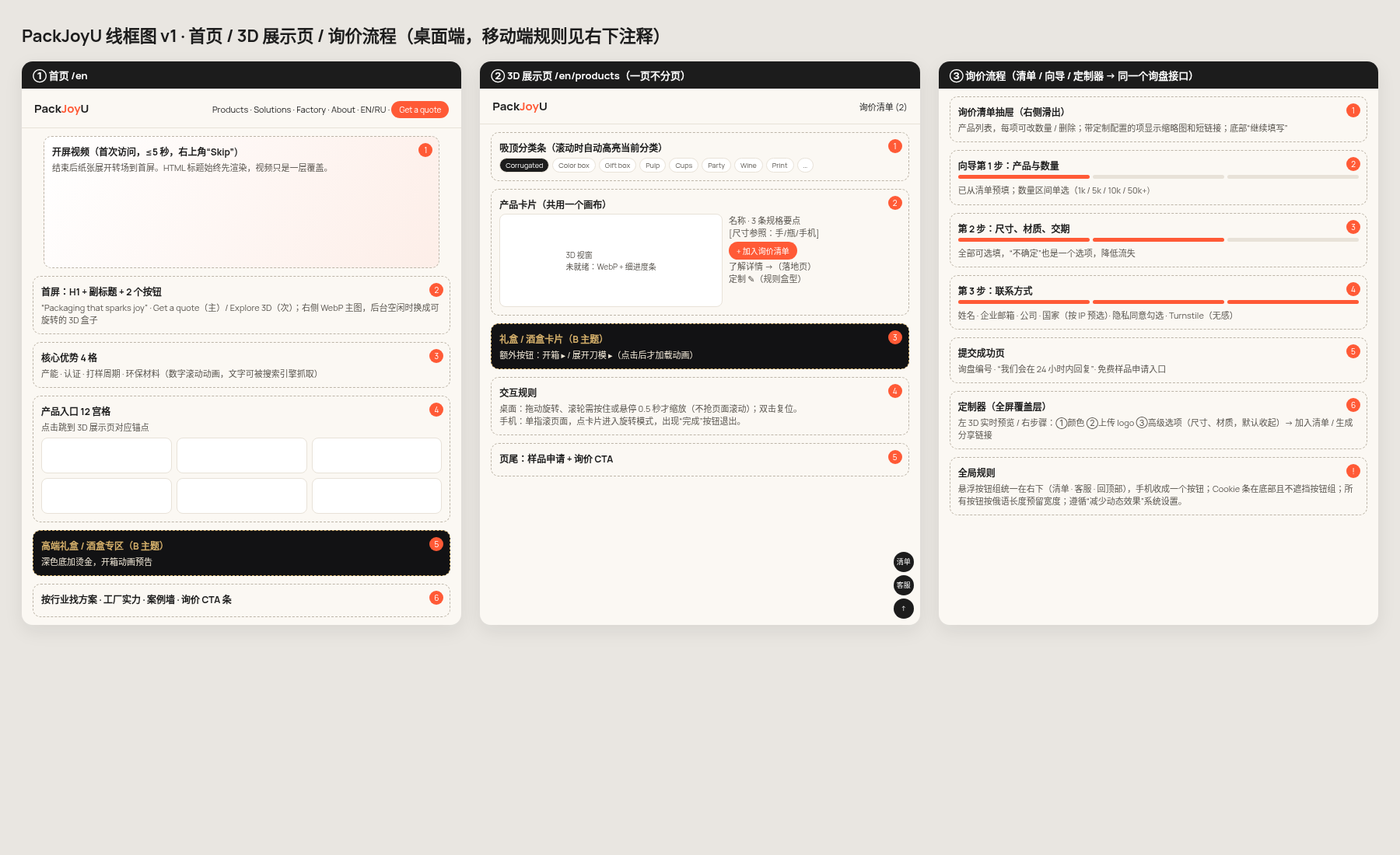
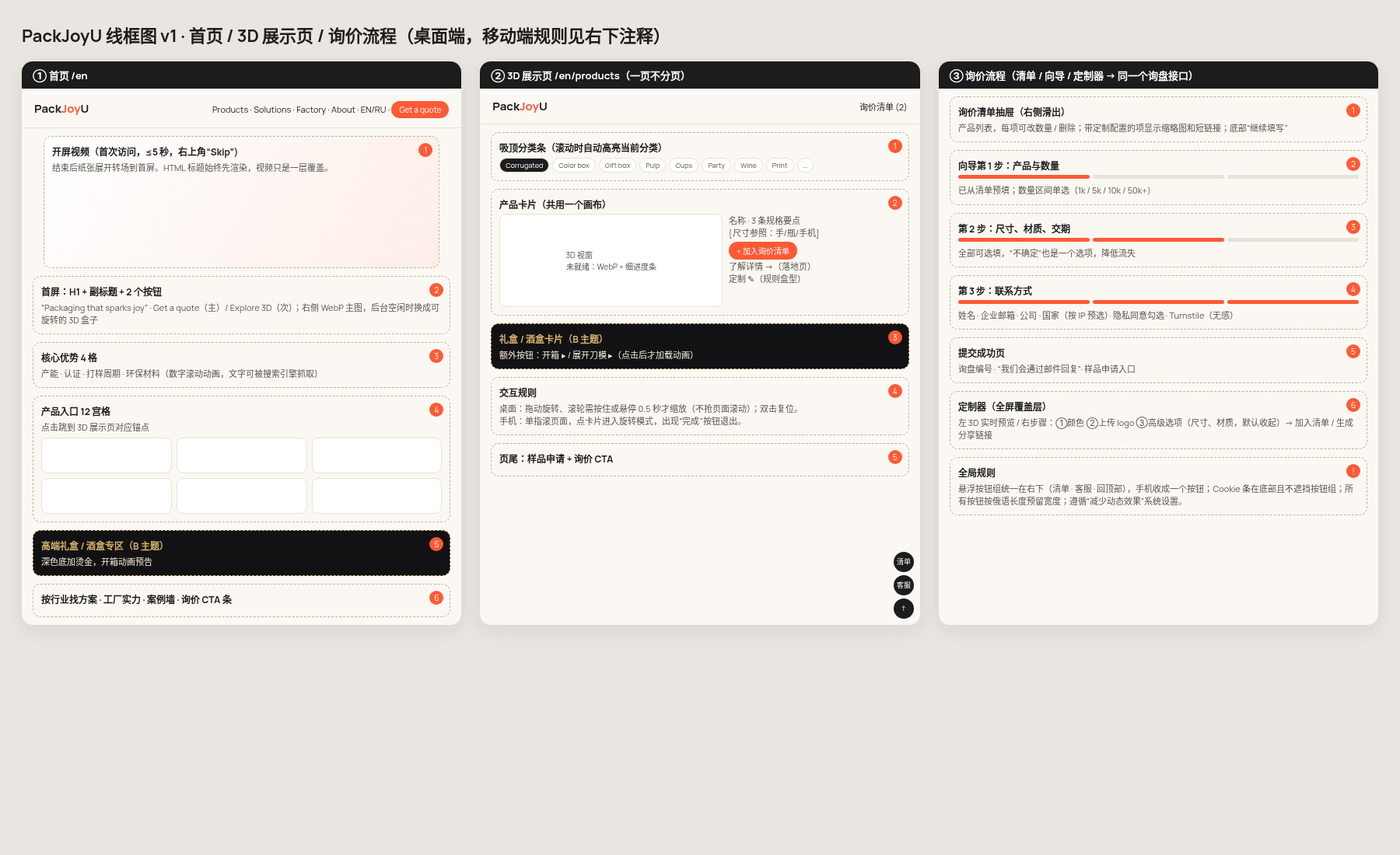
design: neutralize remaining unconfirmed claims (FDA-compliant cups, plastic-free inserts, wireframe 24h/free samples); re-export pages-86/pages-108-mobile/wireframes PNGs

diff --git a/design/pages-108-mobile.html b/design/pages-108-mobile.html
@@ -28,8 +28,8 @@ h1{font-size:30px;line-height:1.15;margin:0 0 10px;hyphens:auto}h2{font-size:22p
 <li>导航抽屉：右侧滑入 translateX，--dur-slow 进 / --dur-base 出；遮罩 rgba(0,0,0,.35)；焦点锁定，Esc/遮罩关闭，焦点回到汉堡按钮。</li>
 <li>礼盒/酒盒区块 .theme-premium；按钮文字颜色待 #147/#148（PR #156）Ryan 选择，本稿暂用当前色。</li>
 <li>首屏标题不做淡入；首屏以下卡片按 motion-tokens 滚动入场（.reveal）。工厂视频只用同源 poster，点击后才加载，不自动播放。</li>
-<li>斜纹块 = 占位图（标注目标路径）；只用 public/images/posters 下已有 3 张海报。</li></ul></div><h2 class="pt">① Industries · /[locale]/industries</h2><div class="rowp"><div class="col"><p class="lbl">EN 390 · Cookie 条显示中（浮动按钮上移 12px）</p><div class="phone"><header class="hd"><b class="logo">Pack<i>Joy</i>U</b><span class="lg">EN · RU</span><button class="ham" aria-label="Menu">☰</button></header><section class="pad"><p class="eye">Solutions by industry</p><h1>Packaging built for your industry</h1><p class="lead">Pick your sector to see matching structures, materials and certifications.</p></section><div class="chips"><span class="chip on">All</span><span class="chip">Food</span><span class="chip">E-commerce</span><span class="chip">Seasonal</span><span class="chip">Gift & wine</span></div><section class="pad stack"><article class="card"><div class="ph" style="height:180px"><span>posters/custom-color-boxes.webp · 占位</span></div><div class="cb"><h3>Food & beverage</h3><p>Custom printing, FDA-compliant cups and grease-resistant color boxes.</p><a class="more">View solution →</a></div></article><article class="card"><div class="im" style="height:180px"><img src="../public/images/posters/custom-corrugated-boxes.webp" alt=""></div><div class="cb"><h3>E-commerce & shipping</h3><p>Mailer boxes and molded inserts that survive long-haul export freight.</p><a class="more">View solution →</a></div></article><article class="card"><div class="ph" style="height:180px"><span>posters/custom-party-supplies.webp · 占位</span></div><div class="cb"><h3>Seasonal & retail</h3><p>Christmas sets, party supplies and gift cards ready for shelf.</p><a class="more">View solution →</a></div></article></section>
-<section class="theme-premium pad prem"><p class="eye">Premium · Wine & gift</p><h2>Wine and gift boxes that open like a ceremony</h2><p class="lead">Rigid board, gold foil and custom inserts for spirits, wine and corporate gifting.</p><div class="im dk" style="height:200px"><img src="../public/images/posters/custom-wine-boxes.webp" alt=""></div><div class="im dk" style="height:200px"><img src="../public/images/posters/custom-gift-boxes.webp" alt=""></div><span class="btn wide">Get a quote</span></section><section class="cta"><p>Tell us your product, quantity and market — we'll reply soon.</p><span class="btn wide">Get a quote</span></section><div class="fab" style="bottom:144px"><span class="f">✉</span><span class="f">☰<em>3</em></span></div><div class="ck"><p>We use cookies for analytics and chat. <a>Settings</a></p><div class="ckb"><span class="btn ghost">Reject</span><span class="btn">Accept</span></div></div></div></div><div class="col"><p class="lbl">RU 390 · Cookie 已处理</p><div class="phone"><header class="hd"><b class="logo">Pack<i>Joy</i>U</b><span class="lg">EN · RU</span><button class="ham" aria-label="Меню">☰</button></header><section class="pad"><p class="eye">Решения по отраслям</p><h1>Упаковка, созданная для вашей отрасли</h1><p class="lead">Выберите отрасль, чтобы увидеть подходящие конструкции, материалы и сертификаты.</p></section><div class="chips"><span class="chip on">Все</span><span class="chip">Продукты</span><span class="chip">E-commerce</span><span class="chip">Сезонное</span><span class="chip">Подарки и вино</span></div><section class="pad stack"><article class="card"><div class="ph" style="height:180px"><span>posters/custom-color-boxes.webp · 占位</span></div><div class="cb"><h3>Продукты питания и напитки</h3><p>Индивидуальная печать, стаканы по стандартам FDA и жиростойкие коробки.</p><a class="more">Подробнее о решении →</a></div></article><article class="card"><div class="im" style="height:180px"><img src="../public/images/posters/custom-corrugated-boxes.webp" alt=""></div><div class="cb"><h3>Электронная коммерция и доставка</h3><p>Почтовые коробки и литые вкладыши, выдерживающие дальнюю экспортную перевозку.</p><a class="more">Подробнее о решении →</a></div></article><article class="card"><div class="ph" style="height:180px"><span>posters/custom-party-supplies.webp · 占位</span></div><div class="cb"><h3>Сезонная и розничная упаковка</h3><p>Рождественские наборы, товары для праздников и подарочные карты.</p><a class="more">Подробнее о решении →</a></div></article></section>
+<li>斜纹块 = 占位图（标注目标路径）；只用 public/images/posters 下已有 3 张海报。</li></ul></div><h2 class="pt">① Industries · /[locale]/industries</h2><div class="rowp"><div class="col"><p class="lbl">EN 390 · Cookie 条显示中（浮动按钮上移 12px）</p><div class="phone"><header class="hd"><b class="logo">Pack<i>Joy</i>U</b><span class="lg">EN · RU</span><button class="ham" aria-label="Menu">☰</button></header><section class="pad"><p class="eye">Solutions by industry</p><h1>Packaging built for your industry</h1><p class="lead">Pick your sector to see matching structures, materials and certifications.</p></section><div class="chips"><span class="chip on">All</span><span class="chip">Food</span><span class="chip">E-commerce</span><span class="chip">Seasonal</span><span class="chip">Gift & wine</span></div><section class="pad stack"><article class="card"><div class="ph" style="height:180px"><span>posters/custom-color-boxes.webp · 占位</span></div><div class="cb"><h3>Food & beverage</h3><p>Custom-printed cups and grease-resistant color boxes.</p><a class="more">View solution →</a></div></article><article class="card"><div class="im" style="height:180px"><img src="../public/images/posters/custom-corrugated-boxes.webp" alt=""></div><div class="cb"><h3>E-commerce & shipping</h3><p>Mailer boxes and molded inserts that survive long-haul export freight.</p><a class="more">View solution →</a></div></article><article class="card"><div class="ph" style="height:180px"><span>posters/custom-party-supplies.webp · 占位</span></div><div class="cb"><h3>Seasonal & retail</h3><p>Christmas sets, party supplies and gift cards ready for shelf.</p><a class="more">View solution →</a></div></article></section>
+<section class="theme-premium pad prem"><p class="eye">Premium · Wine & gift</p><h2>Wine and gift boxes that open like a ceremony</h2><p class="lead">Rigid board, gold foil and custom inserts for spirits, wine and corporate gifting.</p><div class="im dk" style="height:200px"><img src="../public/images/posters/custom-wine-boxes.webp" alt=""></div><div class="im dk" style="height:200px"><img src="../public/images/posters/custom-gift-boxes.webp" alt=""></div><span class="btn wide">Get a quote</span></section><section class="cta"><p>Tell us your product, quantity and market — we'll reply soon.</p><span class="btn wide">Get a quote</span></section><div class="fab" style="bottom:144px"><span class="f">✉</span><span class="f">☰<em>3</em></span></div><div class="ck"><p>We use cookies for analytics and chat. <a>Settings</a></p><div class="ckb"><span class="btn ghost">Reject</span><span class="btn">Accept</span></div></div></div></div><div class="col"><p class="lbl">RU 390 · Cookie 已处理</p><div class="phone"><header class="hd"><b class="logo">Pack<i>Joy</i>U</b><span class="lg">EN · RU</span><button class="ham" aria-label="Меню">☰</button></header><section class="pad"><p class="eye">Решения по отраслям</p><h1>Упаковка, созданная для вашей отрасли</h1><p class="lead">Выберите отрасль, чтобы увидеть подходящие конструкции, материалы и сертификаты.</p></section><div class="chips"><span class="chip on">Все</span><span class="chip">Продукты</span><span class="chip">E-commerce</span><span class="chip">Сезонное</span><span class="chip">Подарки и вино</span></div><section class="pad stack"><article class="card"><div class="ph" style="height:180px"><span>posters/custom-color-boxes.webp · 占位</span></div><div class="cb"><h3>Продукты питания и напитки</h3><p>Стаканы с индивидуальной печатью и жиростойкие коробки.</p><a class="more">Подробнее о решении →</a></div></article><article class="card"><div class="im" style="height:180px"><img src="../public/images/posters/custom-corrugated-boxes.webp" alt=""></div><div class="cb"><h3>Электронная коммерция и доставка</h3><p>Почтовые коробки и литые вкладыши, выдерживающие дальнюю экспортную перевозку.</p><a class="more">Подробнее о решении →</a></div></article><article class="card"><div class="ph" style="height:180px"><span>posters/custom-party-supplies.webp · 占位</span></div><div class="cb"><h3>Сезонная и розничная упаковка</h3><p>Рождественские наборы, товары для праздников и подарочные карты.</p><a class="more">Подробнее о решении →</a></div></article></section>
 <section class="theme-premium pad prem"><p class="eye">Премиум · Вино и подарки</p><h2>Винные и подарочные коробки, которые открывают как церемонию</h2><p class="lead">Жёсткий картон, золотое тиснение и индивидуальные ложементы.</p><div class="im dk" style="height:200px"><img src="../public/images/posters/custom-wine-boxes.webp" alt=""></div><div class="im dk" style="height:200px"><img src="../public/images/posters/custom-gift-boxes.webp" alt=""></div><span class="btn wide">Получить расчёт</span></section><section class="cta"><p>Расскажите о товаре, тираже и рынке — мы скоро ответим.</p><span class="btn wide">Получить расчёт</span></section><div class="fab" style="bottom:16px"><span class="f">✉</span><span class="f">☰<em>3</em></span></div></div></div></div><h2 class="pt">② Factory · /[locale]/factory</h2><div class="rowp"><div class="col"><p class="lbl">EN 390 · Cookie 条显示中（浮动按钮上移 12px）</p><div class="phone"><header class="hd"><b class="logo">Pack<i>Joy</i>U</b><span class="lg">EN · RU</span><button class="ham" aria-label="Menu">☰</button></header><section class="pad"><p class="eye">Our factory</p><h1>In-house printing, die-cutting and QC under one roof</h1><p class="lead">From dieline to container loading, every step happens in our own plant.</p><div class="two"><span class="btn">Get a quote</span><span class="btn ghost">▶ Video tour</span></div></section>
 <div class="pad0"><div class="ph" style="height:210px"><span>factory/workshop-wide.webp · 工厂实拍待提供（视频为同源 poster，点开再加载）</span></div></div><section class="pad kpis"><div class="kpi"><b>15+</b><span>Years exporting</span></div><div class="kpi"><b>20,000 m²</b><span>Production floor</span></div><div class="kpi"><b>8 M</b><span>Units per month</span></div><div class="kpi"><b>40+</b><span>Countries served</span></div></section>
 <section class="pad"><h2>How your order is made</h2><ol class="steps"><li><i>1</i>Dieline & 3D mock-up within 48 h</li><li><i>2</i>Pre-production sample, approved by you</li><li><i>3</i>Offset / flexo printing and lamination</li><li><i>4</i>Die-cutting, gluing and inline QC</li><li><i>5</i>Packing, inspection report and shipping</li></ol></section><section><div class="pad row"><h2>Factory gallery</h2><small>Swipe →</small></div><div class="gal"><div class="ph" style="height:150px"><span>factory/offset-press.webp</span></div><div class="ph" style="height:150px"><span>factory/die-cutting.webp</span></div><div class="ph" style="height:150px"><span>factory/qc-lab.webp</span></div><div class="ph" style="height:150px"><span>factory/warehouse.webp</span></div></div></section>

diff --git a/design/pages-86.html b/design/pages-86.html
@@ -79,13 +79,13 @@ h2{font-size:44px;line-height:1.15;margin:8px 0 12px;max-width:900px}@container 
 
 <script>
 const T={en:{cta:"Tell us your product, quantity and market — we'll reply soon.",
-ind:{eye:"Solutions by industry",h:"Packaging built for your industry",lead:"Pick your sector to see matching structures, materials and certifications.",c1:"Food & beverage",c1d:"Custom printing, FDA-compliant cups and grease-resistant color boxes.",c2:"E-commerce & shipping",c2d:"Mailer boxes and molded inserts that survive long-haul export freight.",c3:"Seasonal & retail",c3d:"Christmas sets, party supplies and gift cards ready for shelf.",more:"View solution",pe:"Premium · Wine & gift",ph:"Wine and gift boxes that open like a ceremony",pl:"Rigid board, gold foil and custom inserts for spirits, wine and corporate gifting."},
+ind:{eye:"Solutions by industry",h:"Packaging built for your industry",lead:"Pick your sector to see matching structures, materials and certifications.",c1:"Food & beverage",c1d:"Custom-printed cups and grease-resistant color boxes.",c2:"E-commerce & shipping",c2d:"Mailer boxes and molded inserts that survive long-haul export freight.",c3:"Seasonal & retail",c3d:"Christmas sets, party supplies and gift cards ready for shelf.",more:"View solution",pe:"Premium · Wine & gift",ph:"Wine and gift boxes that open like a ceremony",pl:"Rigid board, gold foil and custom inserts for spirits, wine and corporate gifting."},
 fac:{eye:"Our factory",h:"In-house printing, die-cutting and QC under one roof",lead:"From dieline to container loading, every step happens in our own plant.",tour:"Video tour",k1:"Years exporting",k2:"Production floor",k3:"Units per month",k4:"Countries served",ph:"How your order is made",s1:"Dieline & 3D mock-up within 48 h",s2:"Pre-production sample, approved by you",s3:"Offset / flexo printing and lamination",s4:"Die-cutting, gluing and inline QC",s5:"Packing, inspection report and shipping",ce:"Certifications",eco:"Eco-friendly materials",cn:"Certificate list is a placeholder — real certificates to be confirmed by Ryan."},
-cas:{eye:"Case wall",h:"Packaging we've shipped worldwide",lead:"Real projects for brands in North America, Europe, Australia and Russia.",all:"All",more:"Read the case",a:"Eco-friendly cups for a café chain",aq:"Lids fit perfectly and the print is sharp.",b:"Mailer boxes for a DTC brand",bd:"Cut damage rate in transit and halved packing time.",c:"Christmas gift sets",cd:"Six SKUs in one coordinated design, delivered before November.",d:"Molded pulp trays",dd:"Plastic-free inserts replacing EPS foam.",pe:"Premium case",ph:"Gold-foil wine boxes for a Moscow winery",pq:"Our customers keep the box after the bottle is gone."}},
+cas:{eye:"Case wall",h:"Packaging we've shipped worldwide",lead:"Real projects for brands in North America, Europe, Australia and Russia.",all:"All",more:"Read the case",a:"Eco-friendly cups for a café chain",aq:"Lids fit perfectly and the print is sharp.",b:"Mailer boxes for a DTC brand",bd:"Cut damage rate in transit and halved packing time.",c:"Christmas gift sets",cd:"Six SKUs in one coordinated design, delivered before November.",d:"Molded pulp trays",dd:"Custom paper inserts.",pe:"Premium case",ph:"Gold-foil wine boxes for a Moscow winery",pq:"Our customers keep the box after the bottle is gone."}},
 ru:{cta:"Расскажите о товаре, тираже и рынке — мы скоро ответим.",
-ind:{eye:"Решения по отраслям",h:"Упаковка, созданная для вашей отрасли",lead:"Выберите отрасль, чтобы увидеть подходящие конструкции, материалы и сертификаты.",c1:"Продукты питания и напитки",c1d:"Индивидуальная печать, стаканы по стандартам FDA и жиростойкие коробки.",c2:"Электронная коммерция и доставка",c2d:"Почтовые коробки и литые вкладыши, выдерживающие дальнюю экспортную перевозку.",c3:"Сезонная и розничная упаковка",c3d:"Рождественские наборы, товары для праздников и подарочные карты.",more:"Подробнее о решении",pe:"Премиум · Вино и подарки",ph:"Винные и подарочные коробки, которые открывают как церемонию",pl:"Жёсткий картон, золотое тиснение и индивидуальные ложементы."},
+ind:{eye:"Решения по отраслям",h:"Упаковка, созданная для вашей отрасли",lead:"Выберите отрасль, чтобы увидеть подходящие конструкции, материалы и сертификаты.",c1:"Продукты питания и напитки",c1d:"Стаканы с индивидуальной печатью и жиростойкие коробки.",c2:"Электронная коммерция и доставка",c2d:"Почтовые коробки и литые вкладыши, выдерживающие дальнюю экспортную перевозку.",c3:"Сезонная и розничная упаковка",c3d:"Рождественские наборы, товары для праздников и подарочные карты.",more:"Подробнее о решении",pe:"Премиум · Вино и подарки",ph:"Винные и подарочные коробки, которые открывают как церемонию",pl:"Жёсткий картон, золотое тиснение и индивидуальные ложементы."},
 fac:{eye:"Наша фабрика",h:"Печать, высечка и контроль качества на собственном производстве",lead:"От развёртки до погрузки контейнера — каждый этап на нашем заводе.",tour:"Видеоэкскурсия",k1:"Лет экспорта",k2:"Производственная площадь",k3:"Единиц в месяц",k4:"Стран-клиентов",ph:"Как изготавливается ваш заказ",s1:"Развёртка и 3D-макет за 48 часов",s2:"Предсерийный образец на ваше утверждение",s3:"Офсетная / флексопечать и ламинирование",s4:"Высечка, склейка и поточный контроль",s5:"Упаковка, отчёт об инспекции и отгрузка",ce:"Сертификаты",eco:"Экологичные материалы",cn:"Список сертификатов — заглушка, Райан подтвердит реальные."},
-cas:{eye:"Стена кейсов",h:"Упаковка, которую мы отправили по всему миру",lead:"Реальные проекты для брендов Северной Америки, Европы, Австралии и России.",all:"Все",more:"Читать кейс",a:"Компостируемые стаканы для сети кофеен",aq:"Крышки сидят идеально, печать чёткая.",b:"Почтовые коробки для DTC-бренда",bd:"Меньше повреждений при доставке и вдвое быстрее упаковка.",c:"Рождественские подарочные наборы",cd:"Шесть артикулов в едином дизайне, поставка до ноября.",d:"Лотки из формованной целлюлозы",dd:"Вкладыши без пластика вместо пенополистирола.",pe:"Премиум-кейс",ph:"Винные коробки с золотым тиснением для московской винодельни",pq:"Покупатели хранят коробку и после того, как бутылка выпита."}}};
+cas:{eye:"Стена кейсов",h:"Упаковка, которую мы отправили по всему миру",lead:"Реальные проекты для брендов Северной Америки, Европы, Австралии и России.",all:"Все",more:"Читать кейс",a:"Компостируемые стаканы для сети кофеен",aq:"Крышки сидят идеально, печать чёткая.",b:"Почтовые коробки для DTC-бренда",bd:"Меньше повреждений при доставке и вдвое быстрее упаковка.",c:"Рождественские подарочные наборы",cd:"Шесть артикулов в едином дизайне, поставка до ноября.",d:"Лотки из формованной целлюлозы",dd:"Бумажные вкладыши на заказ.",pe:"Премиум-кейс",ph:"Винные коробки с золотым тиснением для московской винодельни",pq:"Покупатели хранят коробку и после того, как бутылка выпита."}}};
 const fill=(h,d)=>h.replace(/\{\{([\w.]+)\}\}/g,(_,k)=>k.split('.').reduce((o,x)=>o[x],d));
 const pages=[["t-industry","① Industry solutions · /[locale]/industries"],["t-factory","② Factory · /[locale]/factory"],["t-cases","③ Case wall · /[locale]/case-studies"]];
 const root=document.getElementById('pages');

diff --git a/design/wireframes.html b/design/wireframes.html
@@ -35,7 +35,7 @@ h1{font-size:22px;margin-bottom:18px}.cols{display:grid;grid-template-columns:1f
 <div class="blk"><span class="n">2</span><b>向导第 1 步：产品与数量</b><div class="steps"><span class="on"></span><span></span><span></span></div>已从清单预填；数量区间单选（1k / 5k / 10k / 50k+）</div>
 <div class="blk"><span class="n">3</span><b>第 2 步：尺寸、材质、交期</b><div class="steps"><span class="on"></span><span class="on"></span><span></span></div>全部可选填，“不确定”也是一个选项，降低流失</div>
 <div class="blk"><span class="n">4</span><b>第 3 步：联系方式</b><div class="steps"><span class="on"></span><span class="on"></span><span class="on"></span></div>姓名 · 企业邮箱 · 公司 · 国家（按 IP 预选）· 隐私同意勾选 · Turnstile（无感）</div>
-<div class="blk"><span class="n">5</span><b>提交成功页</b>询盘编号 · “我们会在 24 小时内回复”· 免费样品申请入口</div>
+<div class="blk"><span class="n">5</span><b>提交成功页</b>询盘编号 · “我们会通过邮件回复”· 样品申请入口</div>
 <div class="blk"><span class="n">6</span><b>定制器（全屏覆盖层）</b>左 3D 实时预览 / 右步骤：①颜色 ②上传 logo ③高级选项（尺寸、材质，默认收起）→ 加入清单 / 生成分享链接</div>
 <div class="blk"><span class="n">!</span><b>全局规则</b>悬浮按钮组统一在右下（清单 · 客服 · 回顶部），手机收成一个按钮；Cookie 条在底部且不遮挡按钮组；所有按钮按俄语长度预留宽度；遵循“减少动态效果”系统设置。</div></div>
 </div></body></html>
